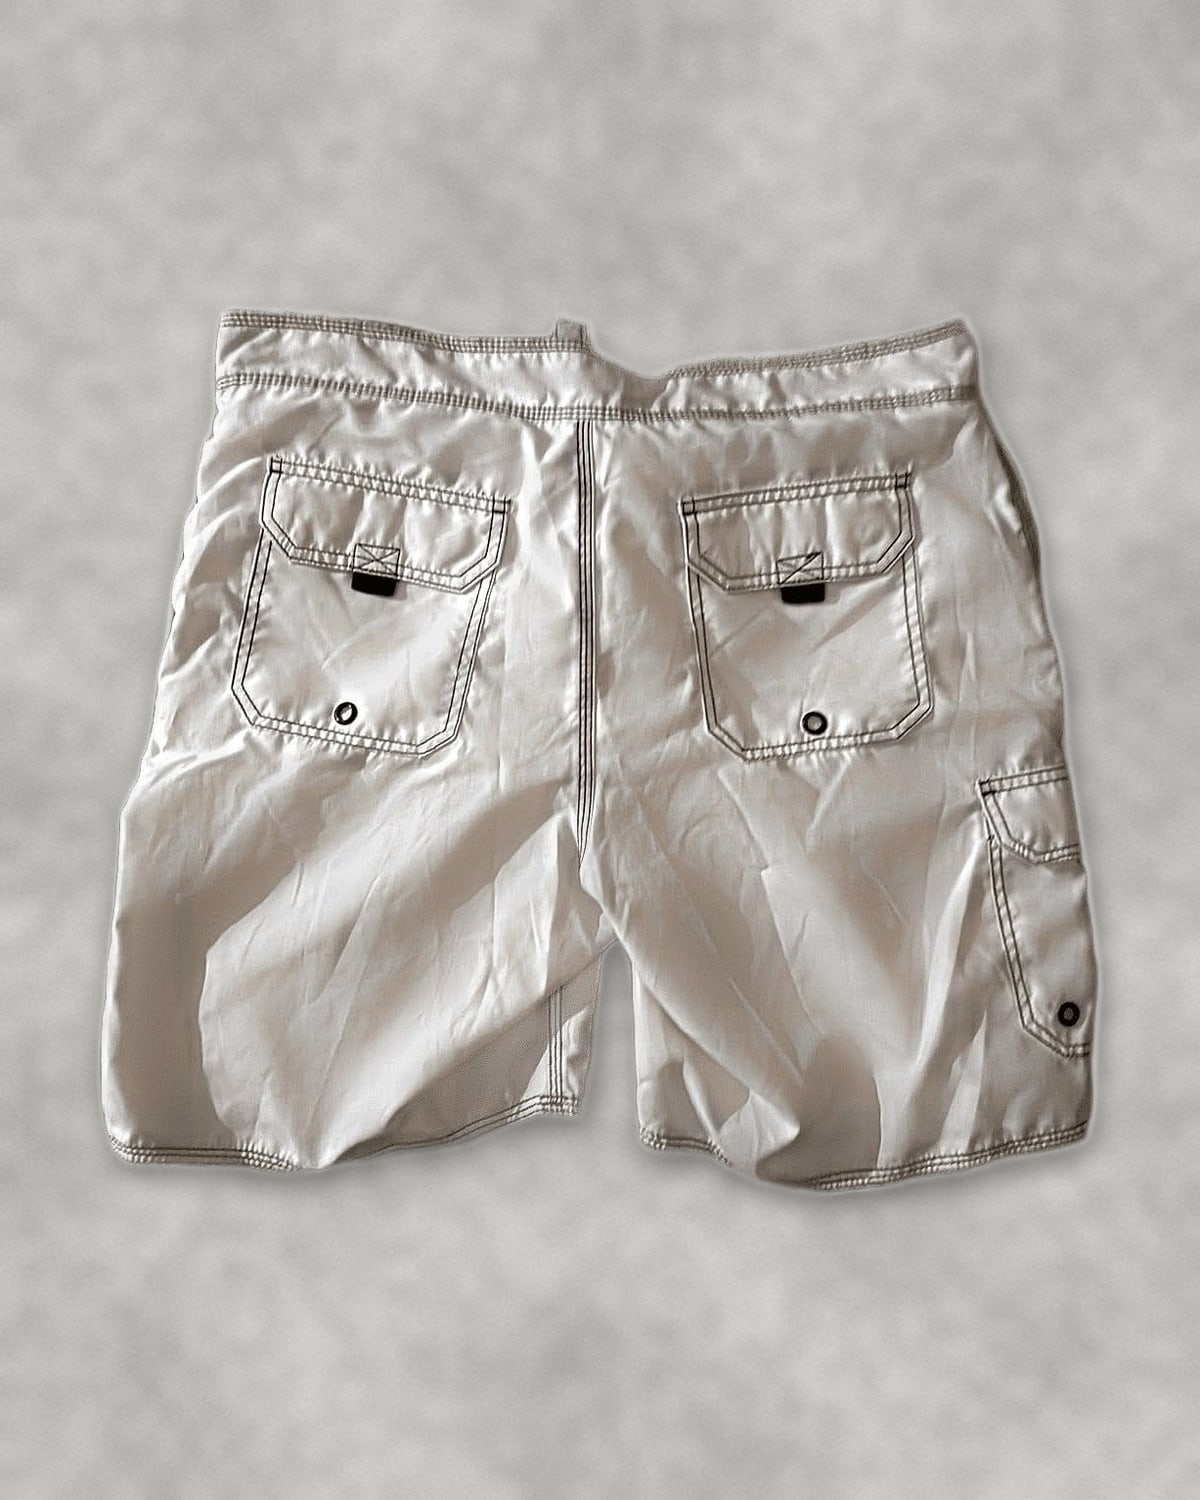
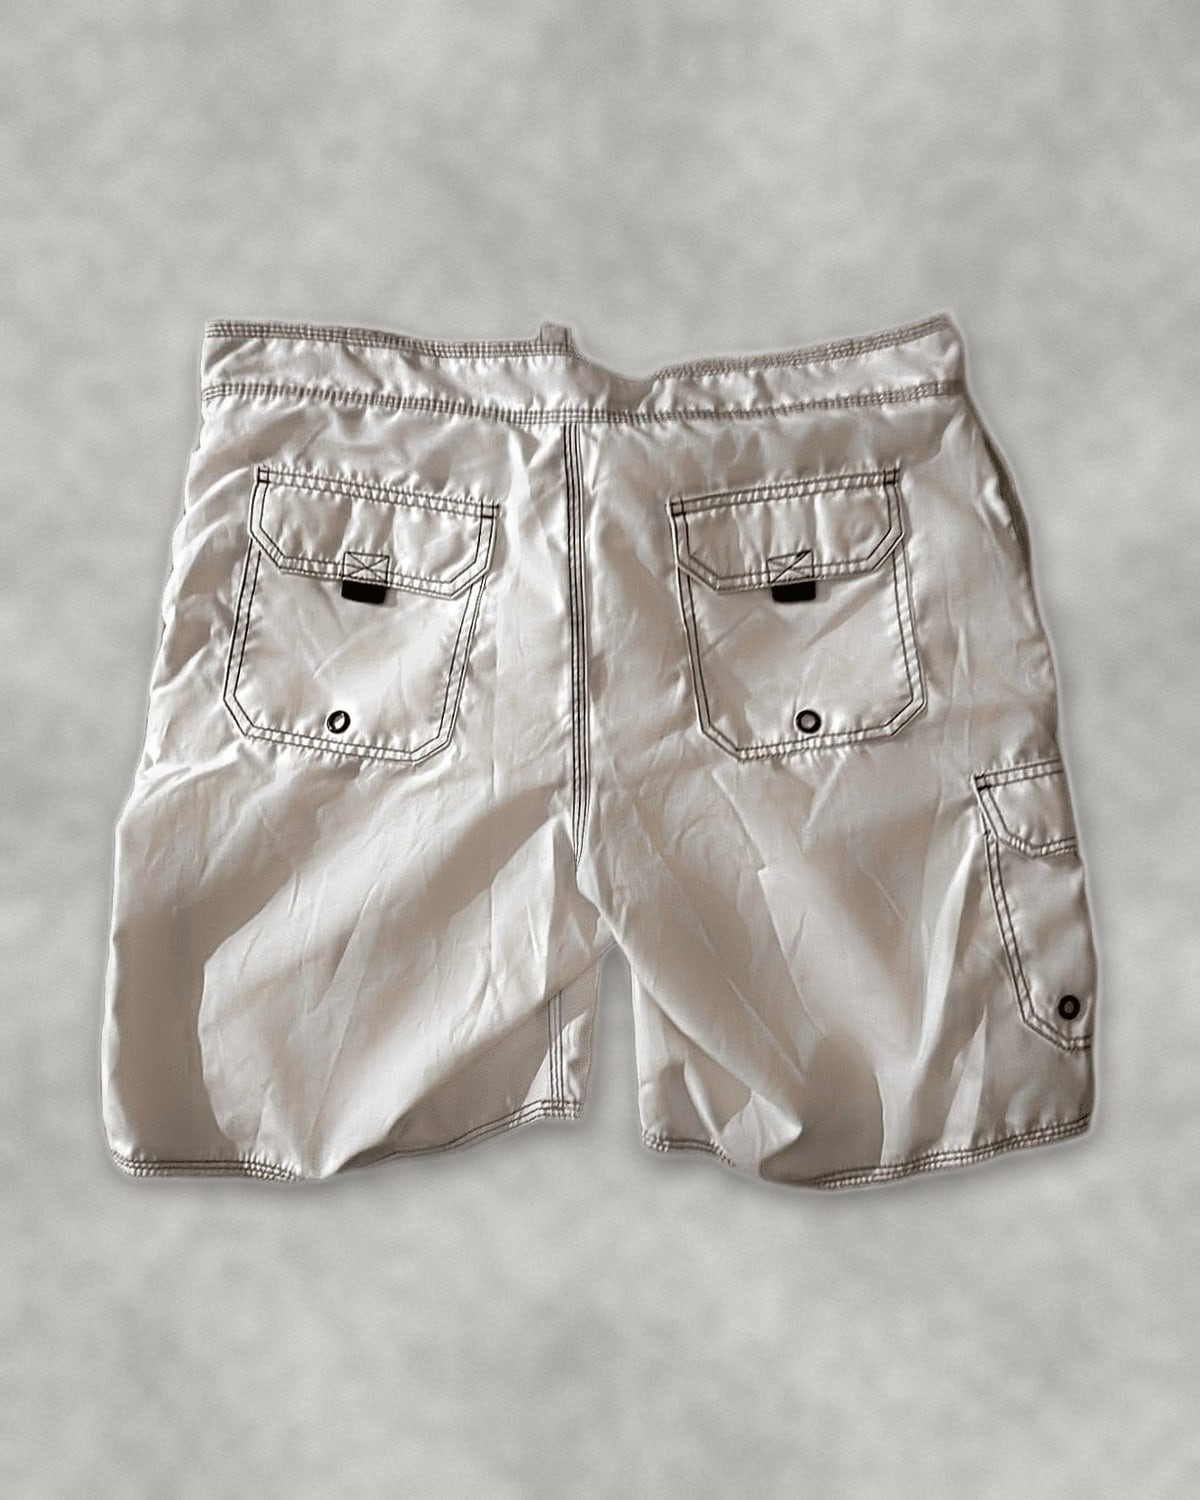
Pieces stand straight (upright by mirror symmetry) on every photo; hero: two big flat-lays of all own pieces (fronts and backs) made with npm run photos:background -- --haul

diff --git a/website/src/assets/hero/CREDITS.md b/website/src/assets/hero/CREDITS.md
@@ -1,16 +1,13 @@
-# Hero photos: sources and licences
+# Hero photos: sources
 
-All from Pexels, under the Pexels License (free for commercial use, editing allowed, no credit required;
-not allowed: selling unaltered copies, implying that people shown endorse the shop). https://www.pexels.com/license/
-Downloaded on 24 November 2026. Earlier hero photos (clothing piles) are in the git history.
+Since 24 November 2026 the hero shows the shop's own pieces: one big flat-lay of all available pieces (front views and
+back views), made from the owner's own photos with the photo tool. No outside licences involved.
 
-| File | Photo | Photographer (Pexels user) |
-|---|---|---|
-| 1-surf-shop.jpg | https://www.pexels.com/photo/choice-of-surfboards-and-clothes-23105772/ | matreding |
-| 2-wetsuits.jpg | https://www.pexels.com/photo/beach-surf-shop-with-colorful-surfboards-38411295/ | shojol |
-| 3-rack.jpg | https://www.pexels.com/photo/urban-clothing-store-with-surfing-decor-40820252/ | labibbb03 |
-| 4-wetsuit.jpg | https://www.pexels.com/photo/a-man-holding-a-wetsuit-4621414/ | arthousestudio |
-| 5-board-room.jpg | https://www.pexels.com/photo/four-people-inside-surfing-building-1897745/ | wendywei |
+    npm run photos:background -- --haul src/assets/hero/1-haul-front.jpg
+    npm run photos:background -- --haul src/assets/hero/2-haul-back.jpg --side back
+
+Run both again after adding new pieces, then commit and push. Earlier hero photos (Pexels surf shops and clothing piles)
+are in the git history.
 
 The hero slider (src/pages/[...lang]/new.astro) shows every image in this folder, sorted by file name.
-Only use photos you took yourself or have a licence for, and add them to this list.
+Only use photos you took yourself or have a licence for.

diff --git a/website/OWNER-ANLEITUNG.md b/website/OWNER-ANLEITUNG.md
@@ -161,3 +161,14 @@ npm run photos:background -- 0013
 - Farben Navy / Off-White, Überschriften in schmalen Grossbuchstaben, eckige Buttons. Das alte Design (Petrol / Sand) ist auf dem Branch **save-before-syds-look** gespeichert. Zurück wechseln: Claude sagen «stell das Design von save-before-syds-look wieder her».
 - **Model-Bilder** sind ausgeschaltet: `showModelPhotos` in `src/settings/site.json` auf `true` stellen, dann erscheinen sie wieder (die Dateien sind noch da).
 - **Fotos der Pieces** liegen alle auf demselben hellen Betonboden und sind «gebügelt» (Falten weicher). Für ein neues Piece: `npm run photos:background -- 0013 --flatlay --iron`. Nahaufnahmen von Etiketten bleiben unverändert und werden ausgeblendet (`showLabelPhotos` in `site.json`). Originale in `raw-docs/photo-originals/`. Die Fotos ohne Bügeln sind auf dem Branch **save-before-ironing** gespeichert.
+
+## Hero (Startbild)
+
+Das grosse Bild oben auf der New-Drop-Seite zeigt deine eigenen Pieces als Flat-Lay (Vorder- und Rückseiten). Nach neuen Pieces im Ordner `website`:
+
+```
+npm run photos:background -- --haul src/assets/hero/1-haul-front.jpg
+npm run photos:background -- --haul src/assets/hero/2-haul-back.jpg --side back
+```
+
+Danach committen und pushen. Alle Pieces werden dabei automatisch gerade (90°) ausgerichtet.
